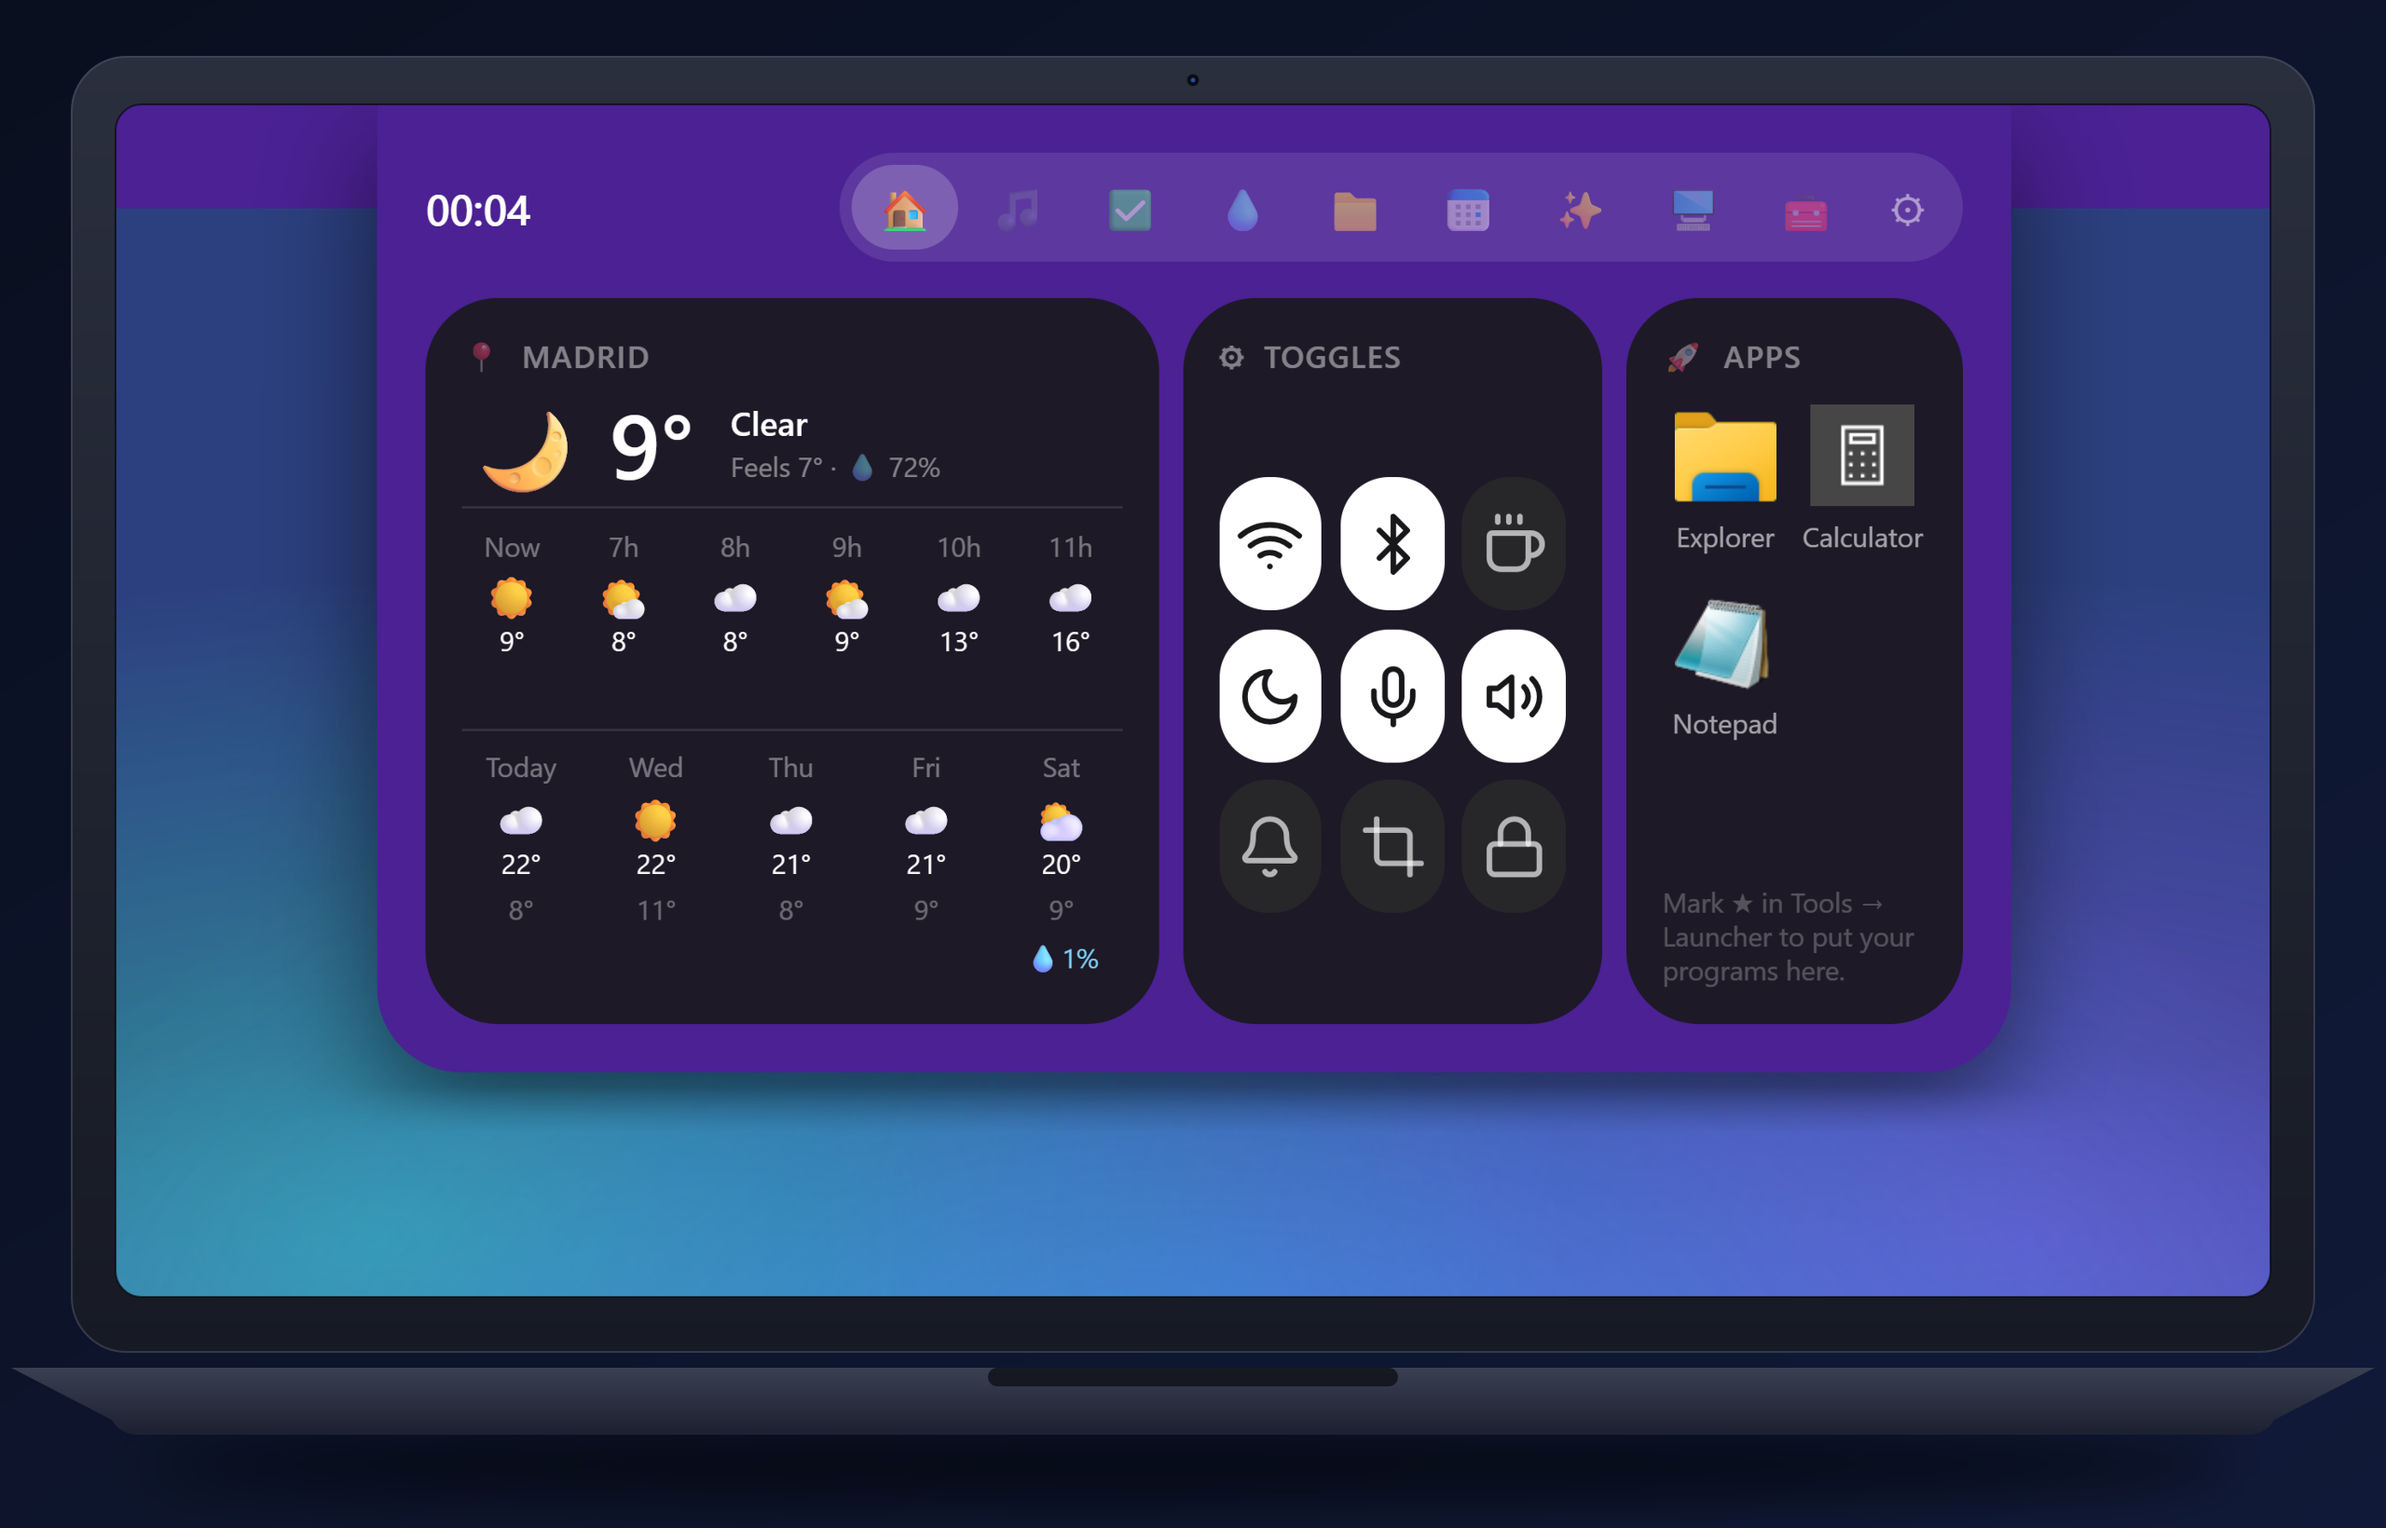
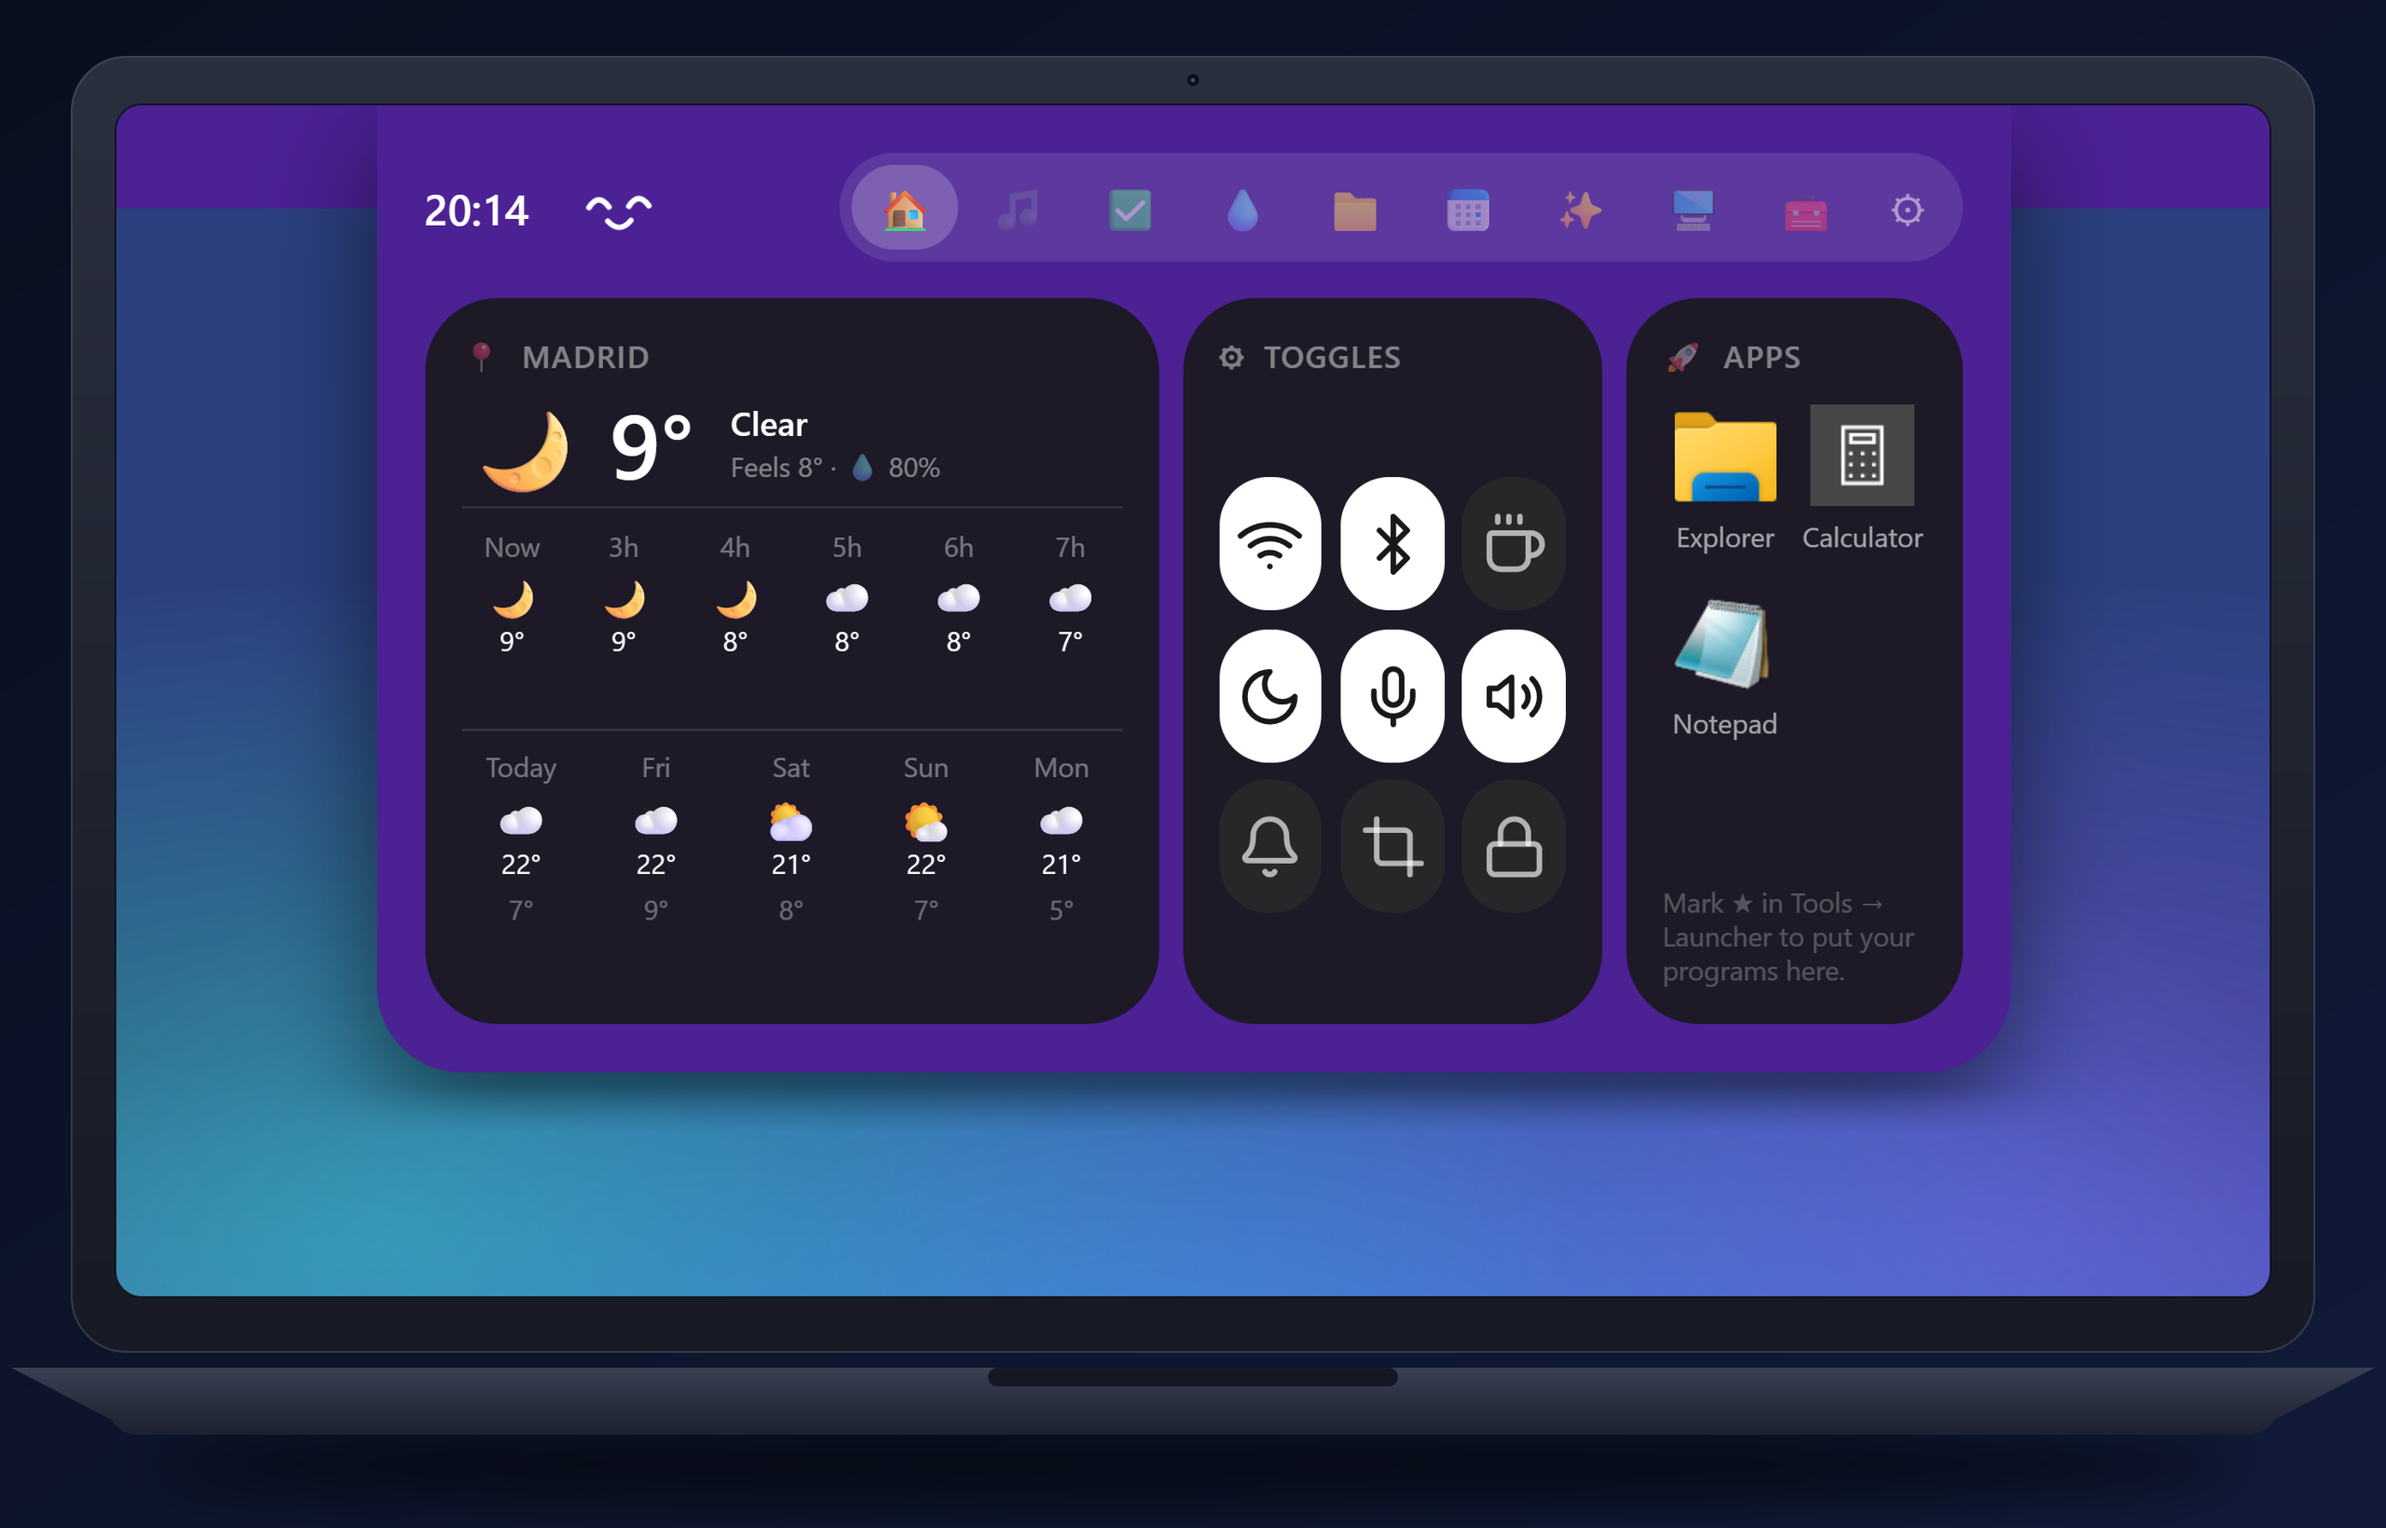
Preparar la 1.1.0: versión, CHANGELOG, README y capturas con el personaje

diff --git a/README.md b/README.md
@@ -39,6 +39,7 @@ Es **gratis, de código abierto y funciona por completo en tu PC**: sin cuentas,
 | 🎯 **Todo a un gesto** | Un solo lugar para música, tareas, calendario, clima, archivos, traductor y más, sin abrir diez ventanas |
 | 🪟 **Convive con tus ventanas** | Se registra como una barra de Windows: las demás ventanas trabajan por debajo y se oculta solo en pantalla completa |
 | 🎨 **Hecho a tu gusto** | Cambia su color o ponle una imagen, haz que tome el color del programa que tengas abierto y elige qué muestra cuando está cerrado |
+| 😊 **Con personalidad** | Una carita en el notch que parpadea, te sigue con la mirada y se alegra cuando terminas una tarea. Si no la quieres, se apaga |
 | 🔒 **Privado** | Tus datos se quedan en tu PC. Las claves de API van al Administrador de credenciales de Windows |
 | 🌐 **Español e inglés** | Cámbialo al instante en los ajustes |
 
@@ -124,6 +125,8 @@ Tus ajustes se guardan en `%APPDATA%\com.noki.app`. Si vienes de «Mi Notch» (e
 
 En **Ajustes → Apariencia** puedes:
 
+- Elegir el **icono de Noki** entre cinco degradados (bandeja y ventana de Ajustes).
+- Dejar o quitar el **personaje**: la carita del notch parpadea y mira tu cursor, se alegra al terminar una tarea, un hábito o un Pomodoro, baila con la música, se sorprende si le haces clic (y se marea si le haces muchos), abre la boca al soltar un archivo y se adormece de noche o con poca batería.
 - Elegir el **color** del notch o ponerle una **imagen** de fondo.
 - Activar el **color automático**: toma el color del programa que tengas abierto debajo y cambia con él.
 - Rellenar la **franja a los costados** del notch para que parezca una sola pieza (igual que el notch, transparente, un color, una imagen o automática).

diff --git a/README.en.md b/README.en.md
@@ -39,6 +39,7 @@ It is **free, open source and runs fully on your PC**: no accounts, no telemetry
 | 🎯 **Everything one gesture away** | One place for music, tasks, calendar, weather, files, translator and more — without opening ten windows |
 | 🪟 **Plays nicely with your windows** | It registers like a Windows bar: other windows work below it, and it hides by itself in full screen |
 | 🎨 **Made your way** | Change its color or give it an image, make it follow the color of the app below it, and choose what it shows when closed |
+| 😊 **Personality** | A little face in the notch that blinks, follows you with its eyes and cheers when you finish a task. Don't want it? Turn it off |
 | 🔒 **Private** | Your data stays on your PC. API keys go to the Windows Credential Manager |
 | 🌐 **English and Spanish** | Switch instantly in the settings |
 
@@ -124,6 +125,8 @@ Your settings live in `%APPDATA%\com.noki.app`. If you are coming from “Mi Not
 
 In **Settings → Appearance** you can:
 
+- Pick the **Noki icon** from five gradients (tray and Settings window).
+- Keep or remove the **character**: the notch's little face blinks and looks at your cursor, cheers when you finish a task, a habit or a Pomodoro, dances to the music, gets surprised if you click it (dizzy if you click it a lot), opens its mouth when you drop a file and gets sleepy at night or on low battery.
 - Pick the notch **color** or give it a background **image**.
 - Turn on **automatic color**: it takes the color of the app open underneath and changes with it.
 - Fill the **strip beside the notch** so it looks like a single piece (same as the notch, transparent, a color, an image or automatic).

diff --git a/CHANGELOG.md b/CHANGELOG.md
@@ -1,6 +1,6 @@
 # Changelog
 
-## Unreleased — Character and new logo / Personaje y logo nuevo
+## 1.1.0 — Character and new logo / Personaje y logo nuevo
 
 - **New logo** (Ciruela Océano) and a **Noki icon picker** in Settings → Appearance (tray and Settings icon). /
   **Logo nuevo** (Ciruela Océano) y un **selector del icono de Noki** en Ajustes → Apariencia (bandeja y Ajustes).
